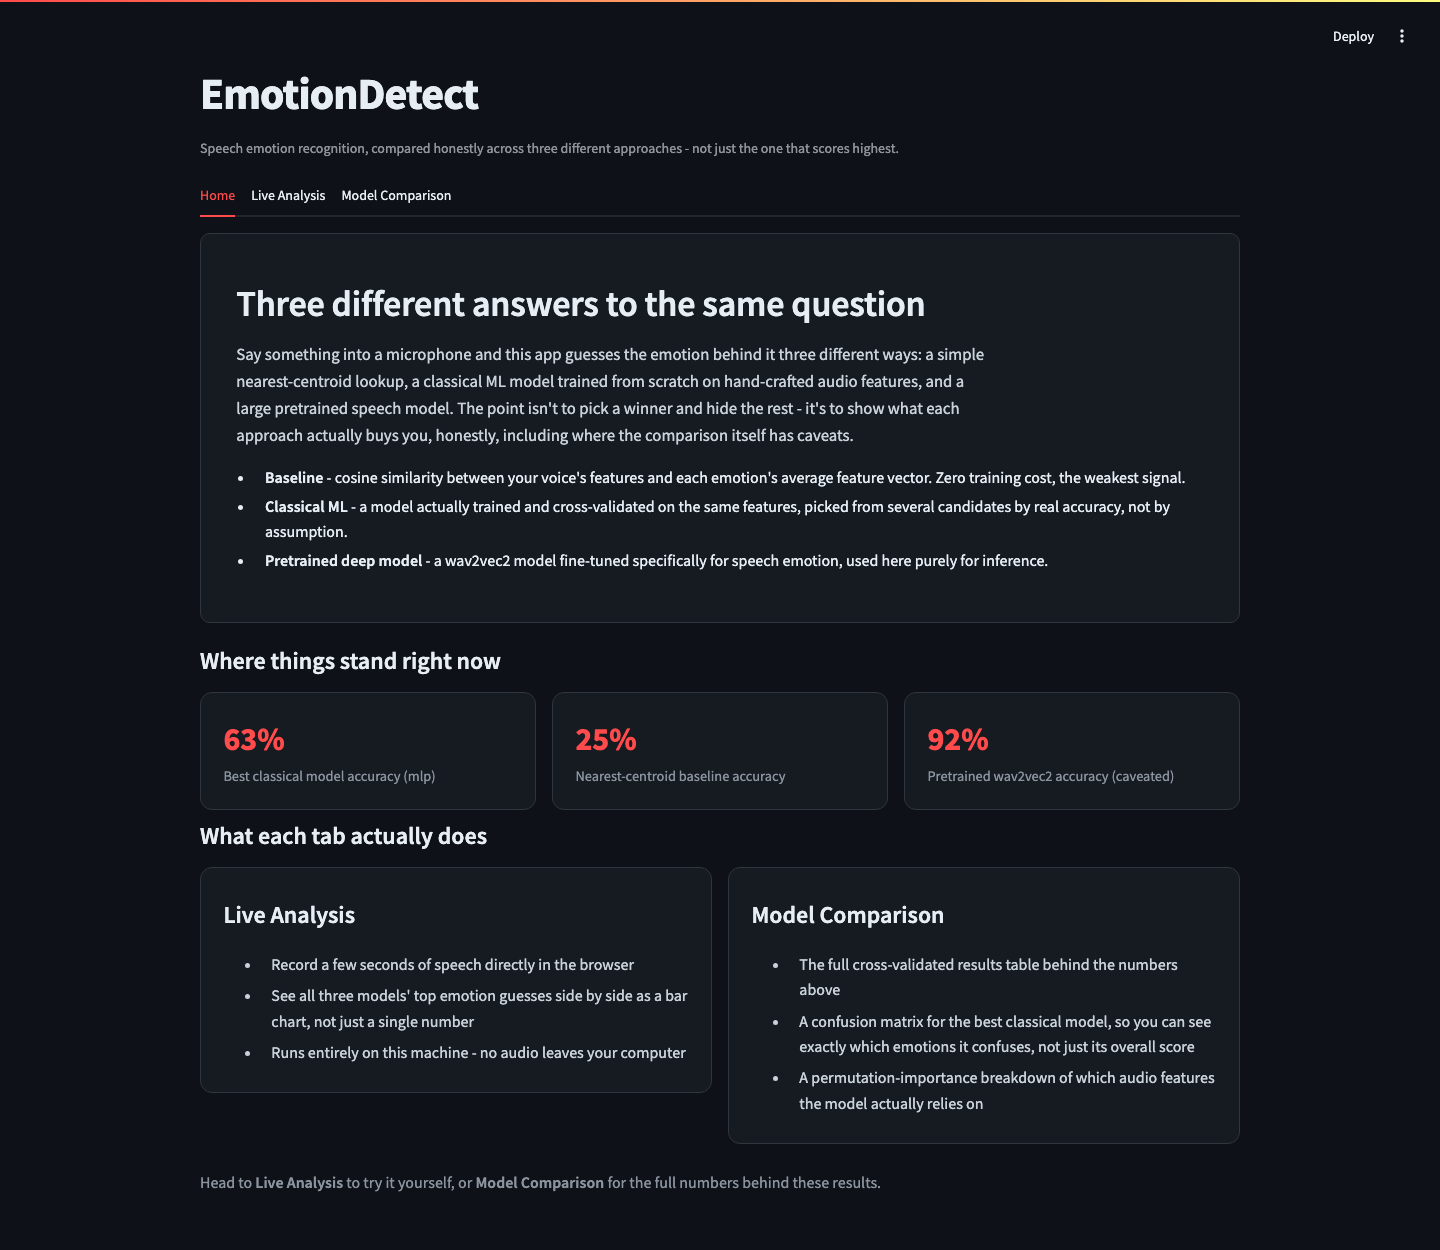
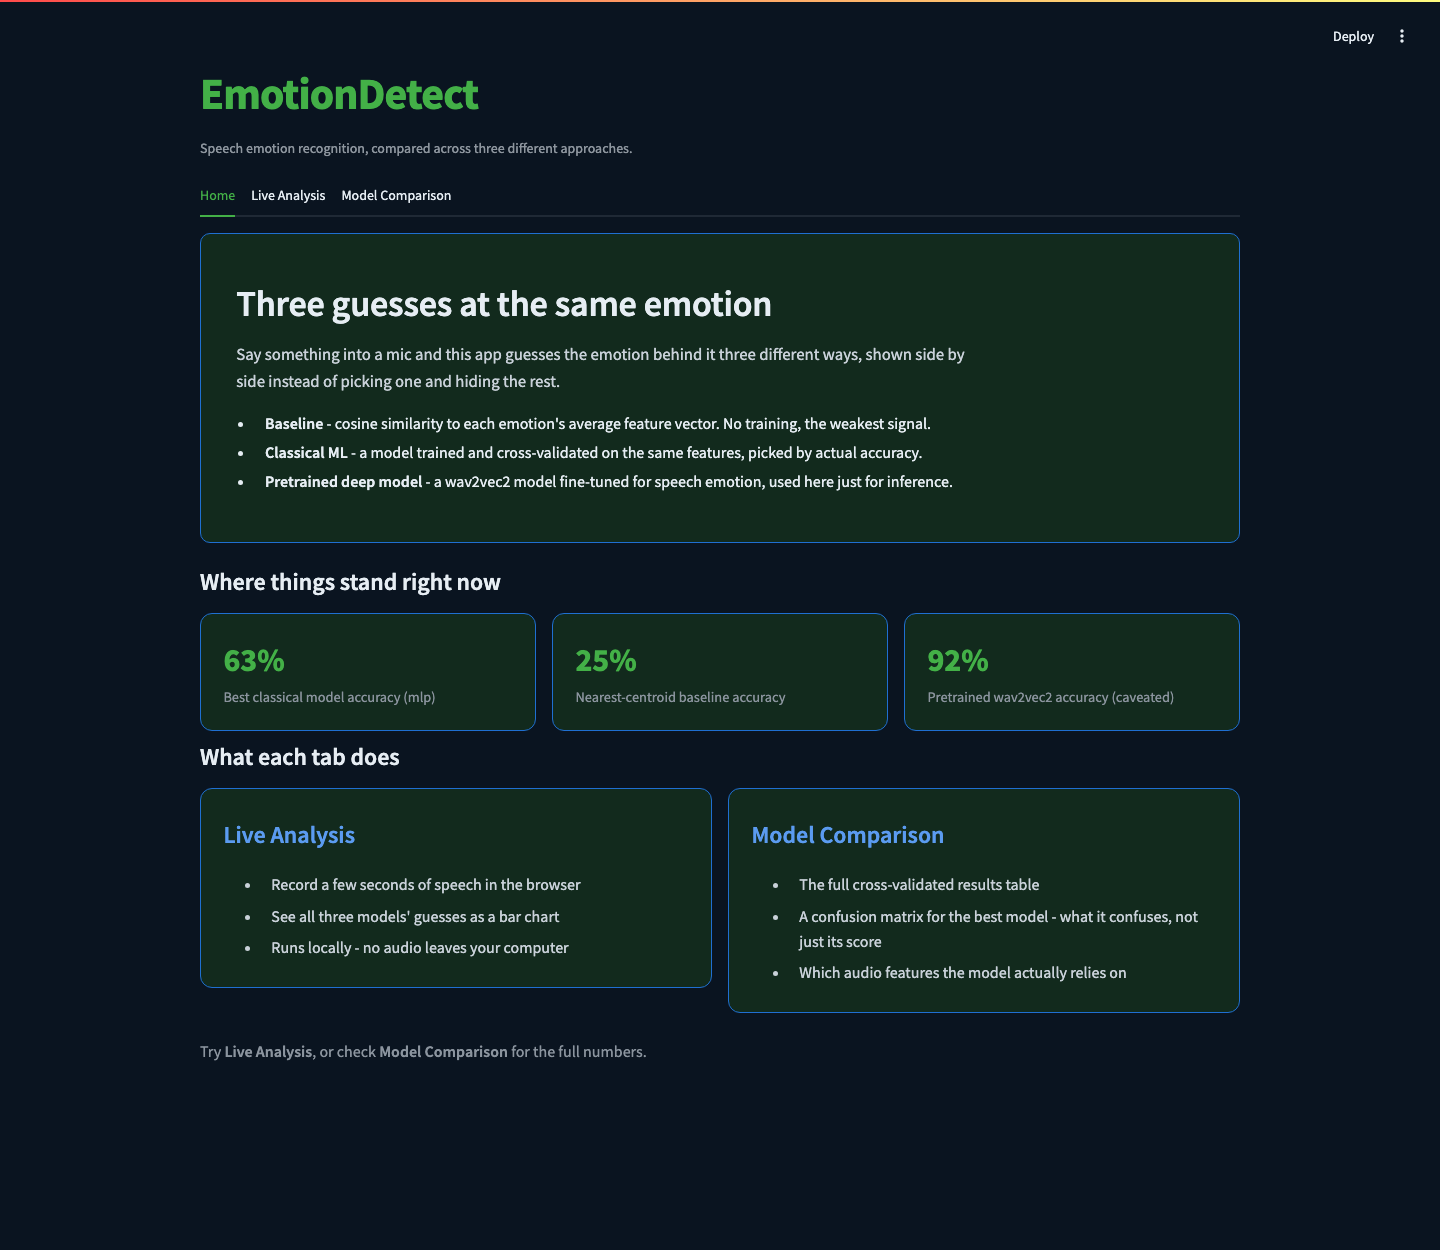
Switch to a green/blue theme, trim app copy, update screenshots
Recolored the app green and blue, and cut down the Home/Live
Analysis/Model Comparison copy - it had drifted into over-explained,
slightly AI-sounding phrasing. Updated README screenshots to match
the new theme.

diff --git a/app.py b/app.py
@@ -24,23 +24,23 @@ st.set_page_config(page_title="EmotionDetect", layout="wide")
 STYLE = """
 <style>
 .block-container { padding-top: 2rem; max-width: 1200px; }
-h1 { font-weight: 700; letter-spacing: -0.02em; }
+h1 { font-weight: 700; letter-spacing: -0.02em; color: #43b047; }
 .ed-card {
-    background: #161b22; border: 1px solid #30363d; border-radius: 10px;
+    background: #122a1d; border: 1px solid #1f6fd1; border-radius: 10px;
     padding: 1rem 1.2rem; margin-bottom: 0.8rem;
 }
 .ed-feature-card {
-    background: #161b22; border: 1px solid #30363d; border-radius: 12px;
+    background: #122a1d; border: 1px solid #1f6fd1; border-radius: 12px;
     padding: 1.3rem 1.4rem; height: 100%;
 }
-.ed-feature-card h4 { margin-top: 0; }
+.ed-feature-card h4 { margin-top: 0; color: #5b9bf0; }
 .ed-feature-card ul { margin: 0.4rem 0 0 0; padding-left: 1.2rem; color: #c9d1d9; }
 .ed-feature-card li { margin-bottom: 0.35rem; }
-.ed-stat { font-size: 2rem; font-weight: 700; color: #ff4b4b; }
+.ed-stat { font-size: 2rem; font-weight: 700; color: #43b047; }
 .ed-stat-label { color: #8b949e; font-size: 0.9rem; }
 .ed-caveat {
-    background: #2d1b1b; border: 1px solid #5c2b2b; border-radius: 10px;
-    padding: 0.9rem 1.1rem; color: #e6b8b8; font-size: 0.92rem;
+    background: #2d2410; border: 1px solid #6b5420; border-radius: 10px;
+    padding: 0.9rem 1.1rem; color: #e6d4a8; font-size: 0.92rem;
 }
 </style>
 """
@@ -88,21 +88,18 @@ def home_tab():
 
     st.markdown(
         '<div class="ed-card" style="padding:2rem 2.2rem;">'
-        "<h2 style='margin-top:0;'>Three different answers to the same question</h2>"
+        "<h2 style='margin-top:0;'>Three guesses at the same emotion</h2>"
         "<p style='color:#c9d1d9; font-size:1.05rem; max-width:760px; line-height:1.6;'>"
-        "Say something into a microphone and this app guesses the emotion behind it three "
-        "different ways: a simple nearest-centroid lookup, a classical ML model trained from "
-        "scratch on hand-crafted audio features, and a large pretrained speech model. The "
-        "point isn't to pick a winner and hide the rest - it's to show what each approach "
-        "actually buys you, honestly, including where the comparison itself has caveats."
+        "Say something into a mic and this app guesses the emotion behind it three different "
+        "ways, shown side by side instead of picking one and hiding the rest."
         "</p>"
         "<ul>"
-        "<li><b>Baseline</b> - cosine similarity between your voice's features and each "
-        "emotion's average feature vector. Zero training cost, the weakest signal.</li>"
-        "<li><b>Classical ML</b> - a model actually trained and cross-validated on the same "
-        "features, picked from several candidates by real accuracy, not by assumption.</li>"
-        "<li><b>Pretrained deep model</b> - a wav2vec2 model fine-tuned specifically for "
-        "speech emotion, used here purely for inference.</li>"
+        "<li><b>Baseline</b> - cosine similarity to each emotion's average feature vector. "
+        "No training, the weakest signal.</li>"
+        "<li><b>Classical ML</b> - a model trained and cross-validated on the same features, "
+        "picked by actual accuracy.</li>"
+        "<li><b>Pretrained deep model</b> - a wav2vec2 model fine-tuned for speech emotion, "
+        "used here just for inference.</li>"
         "</ul>"
         "</div>",
         unsafe_allow_html=True,
@@ -133,16 +130,15 @@ def home_tab():
             unsafe_allow_html=True,
         )
 
-    st.markdown("#### What each tab actually does")
+    st.markdown("#### What each tab does")
     c1, c2 = st.columns(2)
     with c1:
         st.markdown(
             '<div class="ed-feature-card"><h4>Live Analysis</h4>'
             "<ul>"
-            "<li>Record a few seconds of speech directly in the browser</li>"
-            "<li>See all three models' top emotion guesses side by side as a bar chart, "
-            "not just a single number</li>"
-            "<li>Runs entirely on this machine - no audio leaves your computer</li>"
+            "<li>Record a few seconds of speech in the browser</li>"
+            "<li>See all three models' guesses as a bar chart</li>"
+            "<li>Runs locally - no audio leaves your computer</li>"
             "</ul></div>",
             unsafe_allow_html=True,
         )
@@ -150,18 +146,16 @@ def home_tab():
         st.markdown(
             '<div class="ed-feature-card"><h4>Model Comparison</h4>'
             "<ul>"
-            "<li>The full cross-validated results table behind the numbers above</li>"
-            "<li>A confusion matrix for the best classical model, so you can see exactly "
-            "which emotions it confuses, not just its overall score</li>"
-            "<li>A permutation-importance breakdown of which audio features the model "
-            "actually relies on</li>"
+            "<li>The full cross-validated results table</li>"
+            "<li>A confusion matrix for the best model - what it confuses, not just its score</li>"
+            "<li>Which audio features the model actually relies on</li>"
             "</ul></div>",
             unsafe_allow_html=True,
         )
 
     st.markdown(
-        '<p style="color:#8b949e; margin-top:1.6rem;">Head to <b>Live Analysis</b> to try it '
-        "yourself, or <b>Model Comparison</b> for the full numbers behind these results.</p>",
+        '<p style="color:#8b949e; margin-top:1.6rem;">Try <b>Live Analysis</b>, or check '
+        "<b>Model Comparison</b> for the full numbers.</p>",
         unsafe_allow_html=True,
     )
 
@@ -169,10 +163,10 @@ def home_tab():
 def _bar_chart(title: str, probs: dict[str, float]):
     labels = list(probs.keys())
     values = list(probs.values())
-    fig = go.Figure(go.Bar(x=labels, y=values, marker_color="#ff4b4b"))
+    fig = go.Figure(go.Bar(x=labels, y=values, marker_color="#43b047"))
     fig.update_layout(
         title=title, yaxis_range=[0, 1], template="plotly_dark",
-        paper_bgcolor="#161b22", plot_bgcolor="#161b22", height=320,
+        paper_bgcolor="#122a1d", plot_bgcolor="#122a1d", height=320,
         margin=dict(l=20, r=20, t=40, b=20),
     )
     st.plotly_chart(fig, use_container_width=True)
@@ -180,9 +174,8 @@ def _bar_chart(title: str, probs: dict[str, float]):
 
 def live_analysis_tab():
     st.markdown(
-        '<p style="color:#8b949e;">Record a short sentence - a few seconds is enough. Try '
-        "saying the same sentence in an obviously different tone (flat vs. excited) to see "
-        "how much the predictions shift.</p>",
+        '<p style="color:#8b949e;">Record a short sentence. Try the same line in two '
+        "different tones (flat vs. excited) and see how much the predictions shift.</p>",
         unsafe_allow_html=True,
     )
 
@@ -232,10 +225,9 @@ def live_analysis_tab():
             probs = pretrained.predict(audio, sr=16000)
         _bar_chart("Pretrained wav2vec2", probs)
         st.markdown(
-            '<div class="ed-caveat">Heads up: this pretrained model was itself fine-tuned on '
-            "the RAVDESS dataset, so it has almost certainly heard voices and sentences like "
-            "this before. Its confidence here says more about how well it learned RAVDESS "
-            "specifically than how well it generalizes to an arbitrary new voice.</div>",
+            '<div class="ed-caveat">Heads up: this model was fine-tuned on the RAVDESS '
+            "dataset, so its confidence here reflects how well it learned that dataset more "
+            "than how well it generalizes to a new voice.</div>",
             unsafe_allow_html=True,
         )
 
@@ -279,19 +271,19 @@ def model_comparison_tab():
     st.markdown(f"#### Confusion matrix - {classifier_results['best_model']} (best classical model)")
     cm = np.array(classifier_results["confusion_matrix"])
     labels = classifier_results["labels"]
-    fig = go.Figure(go.Heatmap(z=cm, x=labels, y=labels, colorscale="Reds"))
+    fig = go.Figure(go.Heatmap(z=cm, x=labels, y=labels, colorscale="Greens"))
     fig.update_layout(
-        template="plotly_dark", paper_bgcolor="#161b22", plot_bgcolor="#161b22",
+        template="plotly_dark", paper_bgcolor="#122a1d", plot_bgcolor="#122a1d",
         xaxis_title="Predicted", yaxis_title="Actual", height=450,
     )
     st.plotly_chart(fig, use_container_width=True)
 
     if explainability_results:
-        st.markdown(f"#### What the {explainability_results['model']} model actually looks at")
+        st.markdown(f"#### What the {explainability_results['model']} model looks at")
         st.markdown(
-            '<p style="color:#8b949e;">Permutation importance: shuffle one feature across all '
-            "samples and see how much accuracy drops. A feature the model relies on hurts a lot "
-            "when scrambled; one it ignores barely moves the needle.</p>",
+            '<p style="color:#8b949e;">Shuffle one feature, see how much accuracy drops. '
+            "A feature the model relies on hurts a lot when scrambled; one it ignores barely "
+            "moves the needle.</p>",
             unsafe_allow_html=True,
         )
         feat_df = pd.DataFrame(explainability_results["top_features"])
@@ -299,9 +291,8 @@ def model_comparison_tab():
         summary = explainability_results["family_summary"]
         st.markdown(
             f'<p style="color:#8b949e;">Of the top 15 features, {summary["mfcc"]} are MFCCs, '
-            f'{summary["mel"]} are Mel-spectrogram bands, and {summary["chroma"]} are chroma bins - '
-            "MFCCs dominating matches the established speech-emotion literature, where MFCCs "
-            "capture the spectral envelope shape tied to vocal tract and prosody.</p>",
+            f'{summary["mel"]} are Mel bands, {summary["chroma"]} are chroma - MFCCs dominating '
+            "matches what's expected in speech-emotion work.</p>",
             unsafe_allow_html=True,
         )
 
@@ -309,10 +300,7 @@ def model_comparison_tab():
 def main():
     st.markdown(STYLE, unsafe_allow_html=True)
     st.title("EmotionDetect")
-    st.caption(
-        "Speech emotion recognition, compared honestly across three different approaches - "
-        "not just the one that scores highest."
-    )
+    st.caption("Speech emotion recognition, compared across three different approaches.")
     tab0, tab1, tab2 = st.tabs(["Home", "Live Analysis", "Model Comparison"])
     with tab0:
         home_tab()
